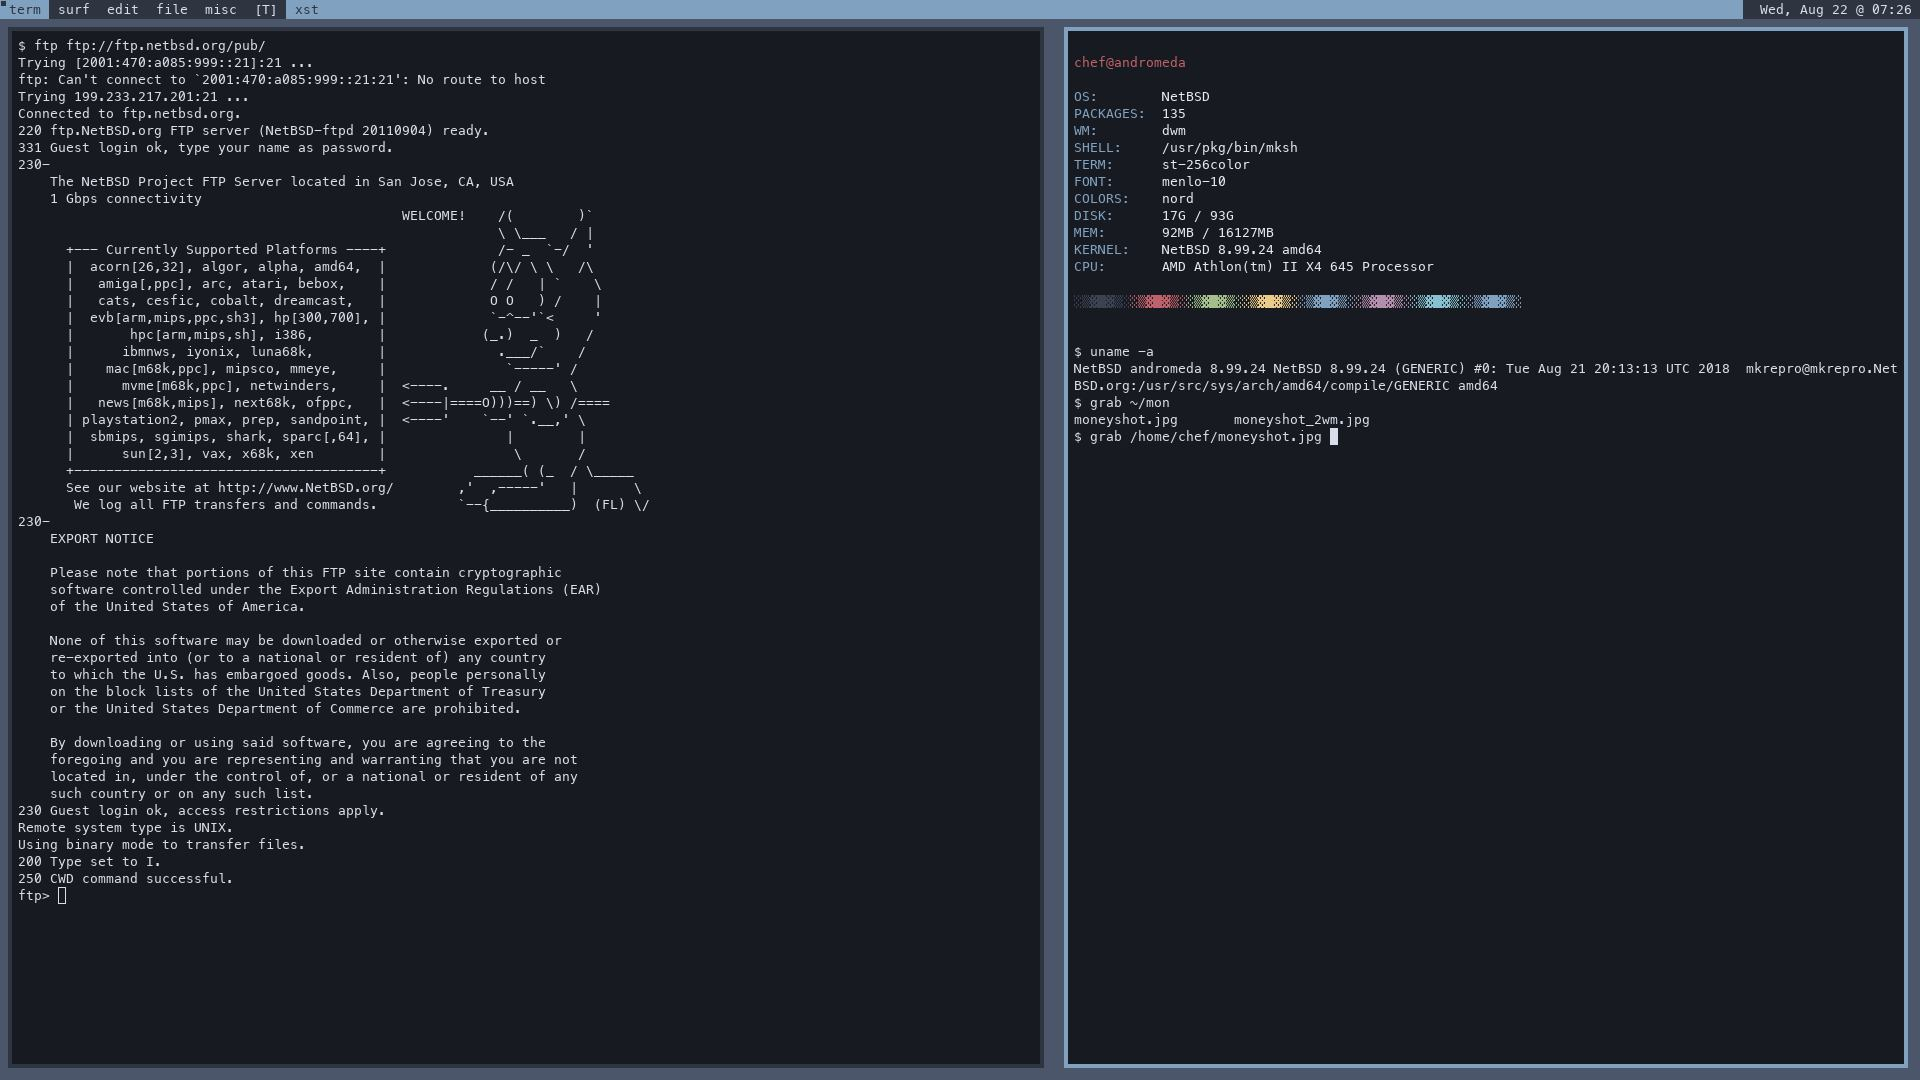
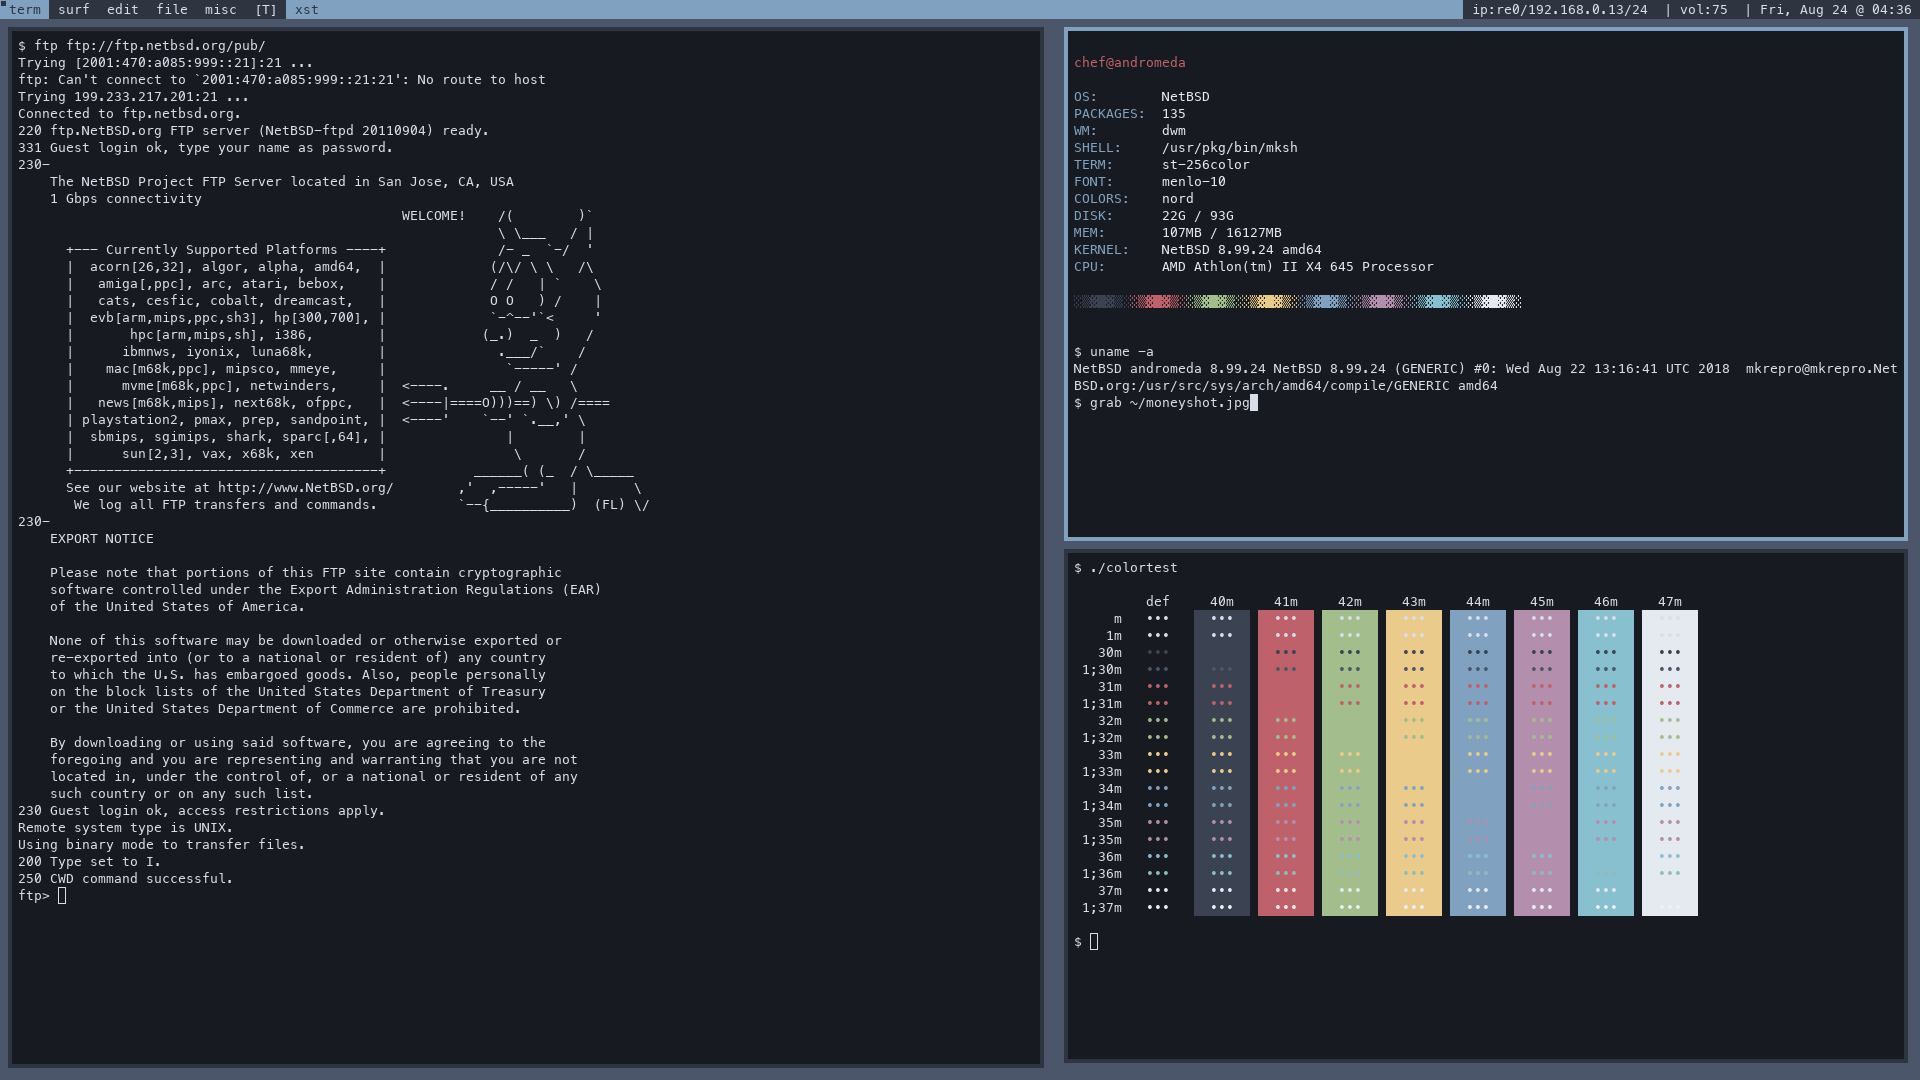
adds and tweaks

diff --git a/net/home/Source/dwm-6.1/config.h b/net/home/Source/dwm-6.1/config.h
@@ -15,7 +15,7 @@ static const unsigned int borderpx  = 4;        /* border pixel of windows */
 static const unsigned int snap      = 4;        /* snap pixel */
 static const int showbar            = 1;        /* 0 means no bar */
 static const int topbar             = 1;        /* 0 means bottom bar */
-static const unsigned int gappx     = 8; 	   /* gap pixel between windows */ 
+static const unsigned int gappx     = 8; 	/* gap pixel between windows */ 
 
 /* tagging */
 static const char *tags[] = { "term", "surf", "edit", "file", "misc" };
@@ -62,6 +62,9 @@ static const char *dmenucmd[] = { "dmenu_start.sh", NULL };
 static const char *termcmd[]  = { "xst", NULL };
 static const char *surfcmd[]  = { "firefox60", NULL };
 static const char *editcmd[]  = { "geany", NULL };
+static const char *volup[]    = { "volume.sh", "+", NULL };
+static const char *voldown[]  = { "volume.sh", "-", NULL };
+static const char *volmute[]  = { "volume.sh", "0", NULL };
 
 static Key keys[] = {
 	/* modifier                     key        function        argument */
@@ -69,6 +72,9 @@ static Key keys[] = {
 	{ MODKEY|ShiftMask,             XK_Return, spawn,          {.v = termcmd } },
 	{ MODKEY|ShiftMask,             XK_f, 	   spawn,          {.v = surfcmd } },
 	{ MODKEY|ShiftMask,             XK_g, 	   spawn,          {.v = editcmd } },
+	{ MODKEY,			XK_F10,    spawn,          {.v = volup } },
+	{ MODKEY,			XK_F11,    spawn,          {.v = voldown } },
+	{ MODKEY,			XK_F12,    spawn,          {.v = volmute } },			
 	{ MODKEY,                       XK_b,      togglebar,      {0} },
 	{ MODKEY,                       XK_j,      focusstack,     {.i = +1 } },
 	{ MODKEY,                       XK_k,      focusstack,     {.i = -1 } },
